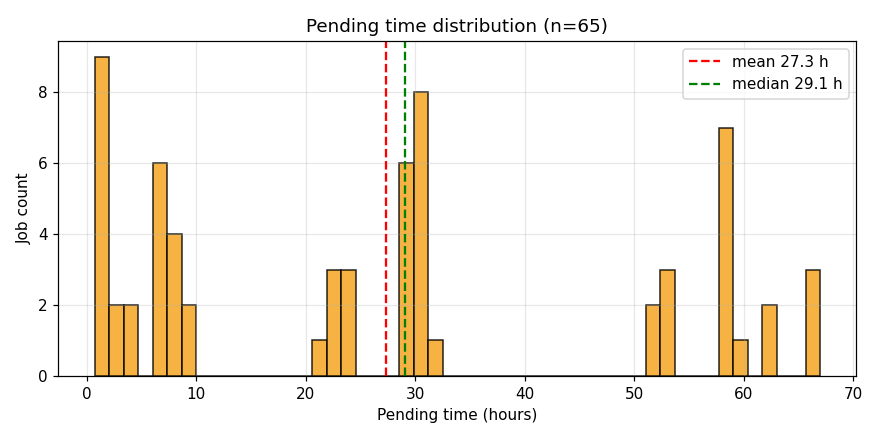
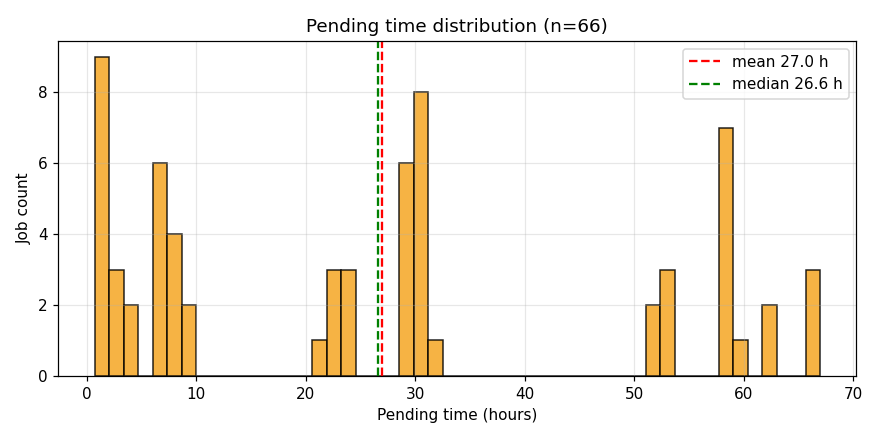
auto: 2026-09-26 00:22:02

diff --git a/index.html b/index.html
@@ -24,29 +24,29 @@ tr:nth-child(even) { background: #fafafa; }
 </style>
 </head><body>
 <h1>AF3 Campaign Dashboard</h1>
-<p class="stamp">Last updated: <strong>2026-09-25 23:21 EDT</strong> · regenerated on the cluster hourly · this page auto-reloads every 30 min</p>
+<p class="stamp">Last updated: <strong>2026-09-26 00:22 EDT</strong> · regenerated on the cluster hourly · this page auto-reloads every 30 min</p>
 
 <div class="cards">
-  <div class="card"><div class="v">1,994</div><div class="l">Total COMPLETED pairs</div></div>
-  <div class="card"><div class="v">913</div><div class="l">Done today</div></div>
-  <div class="card"><div class="v">928</div><div class="l">Last 24 h rate</div></div>
-  <div class="card"><div class="v">24 / 72</div><div class="l">Running / Pending now</div></div>
+  <div class="card"><div class="v">2,021</div><div class="l">Total COMPLETED pairs</div></div>
+  <div class="card"><div class="v">108</div><div class="l">Done today</div></div>
+  <div class="card"><div class="v">929</div><div class="l">Last 24 h rate</div></div>
+  <div class="card"><div class="v">25 / 71</div><div class="l">Running / Pending now</div></div>
 </div>
 
 <h2>Live queue</h2>
 <div class="plots">
   <div>
-    <h3>RUNNING (24)</h3>
+    <h3>RUNNING (25)</h3>
     <div class="queue-table">
       <table><thead><tr><th>Job</th><th>Elapsed</th><th>Left</th><th>Reason / Node</th></tr></thead>
-      <tbody><tr><td>af3_p085_b003</td><td>1:00:39</td><td>22:59:21</td><td>alphagpu52</td></tr><tr><td>af3_p085_b002</td><td>1:31:02</td><td>22:28:58</td><td>alphagpu54</td></tr><tr><td>af3_p085_b001</td><td>1:56:42</td><td>22:03:18</td><td>alphagpu54</td></tr><tr><td>af3_p083_b003</td><td>1:59:16</td><td>22:00:44</td><td>alphagpu54</td></tr><tr><td>af3_p083_b002</td><td>2:07:59</td><td>21:52:01</td><td>alphagpu52</td></tr><tr><td>af3_p083_b001</td><td>2:10:02</td><td>21:49:58</td><td>alphagpu53</td></tr><tr><td>af3_p061_b002</td><td>17:21:22</td><td>1-06:38:38</td><td>alphagpu51</td></tr><tr><td>af3_p061_b001</td><td>18:14:47</td><td>1-05:45:13</td><td>alphagpu53</td></tr><tr><td>af3_p060_b002</td><td>18:34:30</td><td>1-05:25:30</td><td>alphagpu51</td></tr><tr><td>af3_p060_b001</td><td>22:03:20</td><td>1-01:56:40</td><td>alphagpu53</td></tr><tr><td>af3_p059_b001</td><td>1-00:22:00</td><td>23:38:00</td><td>alphagpu52</td></tr><tr><td>af3_p058_b001</td><td>1-01:59:56</td><td>22:00:04</td><td>alphagpu53</td></tr><tr><td>af3_p057_b001</td><td>1-02:12:47</td><td>21:47:13</td><td>alphagpu53</td></tr><tr><td>af3_p056_b001</td><td>1-02:27:28</td><td>21:32:32</td><td>alphagpu53</td></tr><tr><td>af3_p054_b001</td><td>1-07:50:21</td><td>16:09:39</td><td>alphagpu52</td></tr><tr><td>af3_p053_b001</td><td>1-08:00:04</td><td>15:59:56</td><td>alphagpu53</td></tr><tr><td>af3_p065_b002</td><td>4:46:59</td><td>1-19:13:01</td><td>alphagpu54</td></tr><tr><td>af3_p065_b001</td><td>5:05:32</td><td>1-18:54:28</td><td>alphagpu52</td></tr><tr><td>af3_p064_b002</td><td>6:32:47</td><td>1-17:27:13</td><td>alphagpu53</td></tr><tr><td>af3_p064_b001</td><td>6:42:25</td><td>1-17:17:35</td><td>alphagpu54</td></tr><tr><td>af3_p063_b002</td><td>6:57:38</td><td>1-17:02:22</td><td>alphagpu51</td></tr><tr><td>af3_p063_b001</td><td>7:46:49</td><td>1-16:13:11</td><td>alphagpu51</td></tr><tr><td>af3_p062_b002</td><td>12:34:45</td><td>1-11:25:15</td><td>alphagpu51</td></tr><tr><td>af3_p062_b001</td><td>13:18:16</td><td>1-10:41:44</td><td>alphagpu54</td></tr></tbody></table>
+      <tbody><tr><td>af3_p090_b001</td><td>50:24</td><td>23:09:36</td><td>alphagpu54</td></tr><tr><td>af3_p085_b003</td><td>2:01:12</td><td>21:58:48</td><td>alphagpu52</td></tr><tr><td>af3_p085_b002</td><td>2:31:35</td><td>21:28:25</td><td>alphagpu54</td></tr><tr><td>af3_p085_b001</td><td>2:57:15</td><td>21:02:45</td><td>alphagpu54</td></tr><tr><td>af3_p083_b003</td><td>2:59:49</td><td>21:00:11</td><td>alphagpu54</td></tr><tr><td>af3_p083_b002</td><td>3:08:32</td><td>20:51:28</td><td>alphagpu52</td></tr><tr><td>af3_p083_b001</td><td>3:10:35</td><td>20:49:25</td><td>alphagpu53</td></tr><tr><td>af3_p061_b002</td><td>18:21:55</td><td>1-05:38:05</td><td>alphagpu51</td></tr><tr><td>af3_p061_b001</td><td>19:15:20</td><td>1-04:44:40</td><td>alphagpu53</td></tr><tr><td>af3_p060_b002</td><td>19:35:03</td><td>1-04:24:57</td><td>alphagpu51</td></tr><tr><td>af3_p060_b001</td><td>23:03:53</td><td>1-00:56:07</td><td>alphagpu53</td></tr><tr><td>af3_p059_b001</td><td>1-01:22:33</td><td>22:37:27</td><td>alphagpu52</td></tr><tr><td>af3_p058_b001</td><td>1-03:00:29</td><td>20:59:31</td><td>alphagpu53</td></tr><tr><td>af3_p057_b001</td><td>1-03:13:20</td><td>20:46:40</td><td>alphagpu53</td></tr><tr><td>af3_p056_b001</td><td>1-03:28:01</td><td>20:31:59</td><td>alphagpu53</td></tr><tr><td>af3_p054_b001</td><td>1-08:50:54</td><td>15:09:06</td><td>alphagpu52</td></tr><tr><td>af3_p053_b001</td><td>1-09:00:37</td><td>14:59:23</td><td>alphagpu53</td></tr><tr><td>af3_p065_b002</td><td>5:47:32</td><td>1-18:12:28</td><td>alphagpu54</td></tr><tr><td>af3_p065_b001</td><td>6:06:05</td><td>1-17:53:55</td><td>alphagpu52</td></tr><tr><td>af3_p064_b002</td><td>7:33:20</td><td>1-16:26:40</td><td>alphagpu53</td></tr><tr><td>af3_p064_b001</td><td>7:42:58</td><td>1-16:17:02</td><td>alphagpu54</td></tr><tr><td>af3_p063_b002</td><td>7:58:11</td><td>1-16:01:49</td><td>alphagpu51</td></tr><tr><td>af3_p063_b001</td><td>8:47:22</td><td>1-15:12:38</td><td>alphagpu51</td></tr><tr><td>af3_p062_b002</td><td>13:35:18</td><td>1-10:24:42</td><td>alphagpu51</td></tr><tr><td>af3_p062_b001</td><td>14:18:49</td><td>1-09:41:11</td><td>alphagpu54</td></tr></tbody></table>
     </div>
   </div>
   <div>
-    <h3>PENDING (72)</h3>
+    <h3>PENDING (71)</h3>
     <div class="queue-table">
       <table><thead><tr><th>Job</th><th>Wait</th><th>Limit</th><th>Reason</th></tr></thead>
-      <tbody><tr><td>af3_p090_b002</td><td>0:00</td><td>1-00:00:00</td><td>(Priority)</td></tr><tr><td>af3_p090_b001</td><td>0:00</td><td>1-00:00:00</td><td>(Priority)</td></tr><tr><td>af3_p091_b003</td><td>0:00</td><td>1-00:00:00</td><td>(Priority)</td></tr><tr><td>af3_p091_b002</td><td>0:00</td><td>1-00:00:00</td><td>(Priority)</td></tr><tr><td>af3_p091_b001</td><td>0:00</td><td>1-00:00:00</td><td>(Priority)</td></tr><tr><td>af3_p090_b003</td><td>0:00</td><td>1-00:00:00</td><td>(Priority)</td></tr><tr><td>af3_p093_b003</td><td>0:00</td><td>1-00:00:00</td><td>(Priority)</td></tr><tr><td>af3_p093_b002</td><td>0:00</td><td>1-00:00:00</td><td>(Priority)</td></tr><tr><td>af3_p093_b001</td><td>0:00</td><td>1-00:00:00</td><td>(Priority)</td></tr><tr><td>af3_p092_b003</td><td>0:00</td><td>1-00:00:00</td><td>(Priority)</td></tr><tr><td>af3_p092_b002</td><td>0:00</td><td>1-00:00:00</td><td>(Priority)</td></tr><tr><td>af3_p092_b001</td><td>0:00</td><td>1-00:00:00</td><td>(Priority)</td></tr><tr><td>af3_p096_b001</td><td>0:00</td><td>1-00:00:00</td><td>(Priority)</td></tr><tr><td>af3_p095_b003</td><td>0:00</td><td>1-00:00:00</td><td>(Priority)</td></tr><tr><td>af3_p095_b002</td><td>0:00</td><td>1-00:00:00</td><td>(Priority)</td></tr><tr><td>af3_p095_b001</td><td>0:00</td><td>1-00:00:00</td><td>(Priority)</td></tr><tr><td>af3_p094_b003</td><td>0:00</td><td>1-00:00:00</td><td>(Priority)</td></tr><tr><td>af3_p094_b002</td><td>0:00</td><td>1-00:00:00</td><td>(Priority)</td></tr><tr><td>af3_p094_b001</td><td>0:00</td><td>1-00:00:00</td><td>(Priority)</td></tr><tr><td>af3_p098_b003</td><td>0:00</td><td>1-00:00:00</td><td>(Priority)</td></tr><tr><td>af3_p098_b002</td><td>0:00</td><td>1-00:00:00</td><td>(Priority)</td></tr><tr><td>af3_p098_b001</td><td>0:00</td><td>1-00:00:00</td><td>(Priority)</td></tr><tr><td>af3_p097_b003</td><td>0:00</td><td>1-00:00:00</td><td>(Priority)</td></tr><tr><td>af3_p097_b002</td><td>0:00</td><td>1-00:00:00</td><td>(Priority)</td></tr><tr><td>af3_p097_b001</td><td>0:00</td><td>1-00:00:00</td><td>(Priority)</td></tr><tr><td>af3_p096_b003</td><td>0:00</td><td>1-00:00:00</td><td>(Priority)</td></tr><tr><td>af3_p096_b002</td><td>0:00</td><td>1-00:00:00</td><td>(Priority)</td></tr><tr><td>af3_p099_b001</td><td>0:00</td><td>1-00:00:00</td><td>(Priority)</td></tr><tr><td>af3_p100_b002</td><td>0:00</td><td>1-00:00:00</td><td>(Priority)</td></tr><tr><td>af3_p100_b001</td><td>0:00</td><td>1-00:00:00</td><td>(Priority)</td></tr><tr><td>af3_p099_b003</td><td>0:00</td><td>1-00:00:00</td><td>(Priority)</td></tr><tr><td>af3_p099_b002</td><td>0:00</td><td>1-00:00:00</td><td>(Priority)</td></tr><tr><td>af3_p101_b003</td><td>0:00</td><td>1-00:00:00</td><td>(Priority)</td></tr><tr><td>af3_p101_b002</td><td>0:00</td><td>1-00:00:00</td><td>(Priority)</td></tr><tr><td>af3_p101_b001</td><td>0:00</td><td>1-00:00:00</td><td>(Priority)</td></tr><tr><td>af3_p100_b003</td><td>0:00</td><td>1-00:00:00</td><td>(Priority)</td></tr><tr><td>af3_p103_b003</td><td>0:00</td><td>1-00:00:00</td><td>(Priority)</td></tr><tr><td>af3_p103_b002</td><td>0:00</td><td>1-00:00:00</td><td>(Priority)</td></tr><tr><td>af3_p103_b001</td><td>0:00</td><td>1-00:00:00</td><td>(Priority)</td></tr><tr><td>af3_p102_b003</td><td>0:00</td><td>1-00:00:00</td><td>(Priority)</td></tr><tr><td>af3_p102_b002</td><td>0:00</td><td>1-00:00:00</td><td>(Priority)</td></tr><tr><td>af3_p102_b001</td><td>0:00</td><td>1-00:00:00</td><td>(Priority)</td></tr><tr><td>af3_p066_b002</td><td>0:00</td><td>2-00:00:00</td><td>(Priority)</td></tr><tr><td>af3_p066_b001</td><td>0:00</td><td>2-00:00:00</td><td>(Priority)</td></tr><tr><td>af3_p078_b002</td><td>0:00</td><td>2-00:00:00</td><td>(Priority)</td></tr><tr><td>af3_p078_b001</td><td>0:00</td><td>2-00:00:00</td><td>(Priority)</td></tr><tr><td>af3_p077_b002</td><td>0:00</td><td>2-00:00:00</td><td>(Priority)</td></tr><tr><td>af3_p077_b001</td><td>0:00</td><td>2-00:00:00</td><td>(Priority)</td></tr><tr><td>af3_p076_b002</td><td>0:00</td><td>2-00:00:00</td><td>(Priority)</td></tr><tr><td>af3_p076_b001</td><td>0:00</td><td>2-00:00:00</td><td>(Priority)</td></tr><tr><td>af3_p075_b002</td><td>0:00</td><td>2-00:00:00</td><td>(Priority)</td></tr><tr><td>af3_p075_b001</td><td>0:00</td><td>2-00:00:00</td><td>(Priority)</td></tr><tr><td>af3_p074_b002</td><td>0:00</td><td>2-00:00:00</td><td>(Priority)</td></tr><tr><td>af3_p074_b001</td><td>0:00</td><td>2-00:00:00</td><td>(Priority)</td></tr><tr><td>af3_p073_b002</td><td>0:00</td><td>2-00:00:00</td><td>(Priority)</td></tr><tr><td>af3_p073_b001</td><td>0:00</td><td>2-00:00:00</td><td>(Priority)</td></tr><tr><td>af3_p072_b002</td><td>0:00</td><td>2-00:00:00</td><td>(Priority)</td></tr><tr><td>af3_p072_b001</td><td>0:00</td><td>2-00:00:00</td><td>(Priority)</td></tr><tr><td>af3_p071_b002</td><td>0:00</td><td>2-00:00:00</td><td>(Priority)</td></tr><tr><td>af3_p071_b001</td><td>0:00</td><td>2-00:00:00</td><td>(Priority)</td></tr><tr><td>af3_p070_b002</td><td>0:00</td><td>2-00:00:00</td><td>(Priority)</td></tr><tr><td>af3_p070_b001</td><td>0:00</td><td>2-00:00:00</td><td>(Priority)</td></tr><tr><td>af3_p069_b002</td><td>0:00</td><td>2-00:00:00</td><td>(Priority)</td></tr><tr><td>af3_p069_b001</td><td>0:00</td><td>2-00:00:00</td><td>(Priority)</td></tr><tr><td>af3_p068_b002</td><td>0:00</td><td>2-00:00:00</td><td>(Priority)</td></tr><tr><td>af3_p068_b001</td><td>0:00</td><td>2-00:00:00</td><td>(Priority)</td></tr><tr><td>af3_p067_b002</td><td>0:00</td><td>2-00:00:00</td><td>(Priority)</td></tr><tr><td>af3_p067_b001</td><td>0:00</td><td>2-00:00:00</td><td>(Priority)</td></tr><tr><td>af3_p082_b002</td><td>0:00</td><td>2-00:00:00</td><td>(Priority)</td></tr><tr><td>af3_p082_b001</td><td>0:00</td><td>2-00:00:00</td><td>(Priority)</td></tr><tr><td>af3_p080_b002</td><td>0:00</td><td>2-00:00:00</td><td>(Priority)</td></tr><tr><td>af3_p080_b001</td><td>0:00</td><td>2-00:00:00</td><td>(Priority)</td></tr></tbody></table>
+      <tbody><tr><td>af3_p090_b003</td><td>0:00</td><td>1-00:00:00</td><td>(Priority)</td></tr><tr><td>af3_p090_b002</td><td>0:00</td><td>1-00:00:00</td><td>(Priority)</td></tr><tr><td>af3_p092_b003</td><td>0:00</td><td>1-00:00:00</td><td>(Priority)</td></tr><tr><td>af3_p092_b002</td><td>0:00</td><td>1-00:00:00</td><td>(Priority)</td></tr><tr><td>af3_p092_b001</td><td>0:00</td><td>1-00:00:00</td><td>(Priority)</td></tr><tr><td>af3_p091_b003</td><td>0:00</td><td>1-00:00:00</td><td>(Priority)</td></tr><tr><td>af3_p091_b002</td><td>0:00</td><td>1-00:00:00</td><td>(Priority)</td></tr><tr><td>af3_p091_b001</td><td>0:00</td><td>1-00:00:00</td><td>(Priority)</td></tr><tr><td>af3_p094_b003</td><td>0:00</td><td>1-00:00:00</td><td>(Priority)</td></tr><tr><td>af3_p094_b002</td><td>0:00</td><td>1-00:00:00</td><td>(Priority)</td></tr><tr><td>af3_p094_b001</td><td>0:00</td><td>1-00:00:00</td><td>(Priority)</td></tr><tr><td>af3_p093_b003</td><td>0:00</td><td>1-00:00:00</td><td>(Priority)</td></tr><tr><td>af3_p093_b002</td><td>0:00</td><td>1-00:00:00</td><td>(Priority)</td></tr><tr><td>af3_p093_b001</td><td>0:00</td><td>1-00:00:00</td><td>(Priority)</td></tr><tr><td>af3_p096_b003</td><td>0:00</td><td>1-00:00:00</td><td>(Priority)</td></tr><tr><td>af3_p096_b002</td><td>0:00</td><td>1-00:00:00</td><td>(Priority)</td></tr><tr><td>af3_p096_b001</td><td>0:00</td><td>1-00:00:00</td><td>(Priority)</td></tr><tr><td>af3_p095_b003</td><td>0:00</td><td>1-00:00:00</td><td>(Priority)</td></tr><tr><td>af3_p095_b002</td><td>0:00</td><td>1-00:00:00</td><td>(Priority)</td></tr><tr><td>af3_p095_b001</td><td>0:00</td><td>1-00:00:00</td><td>(Priority)</td></tr><tr><td>af3_p098_b003</td><td>0:00</td><td>1-00:00:00</td><td>(Priority)</td></tr><tr><td>af3_p098_b002</td><td>0:00</td><td>1-00:00:00</td><td>(Priority)</td></tr><tr><td>af3_p098_b001</td><td>0:00</td><td>1-00:00:00</td><td>(Priority)</td></tr><tr><td>af3_p097_b003</td><td>0:00</td><td>1-00:00:00</td><td>(Priority)</td></tr><tr><td>af3_p097_b002</td><td>0:00</td><td>1-00:00:00</td><td>(Priority)</td></tr><tr><td>af3_p097_b001</td><td>0:00</td><td>1-00:00:00</td><td>(Priority)</td></tr><tr><td>af3_p099_b002</td><td>0:00</td><td>1-00:00:00</td><td>(Priority)</td></tr><tr><td>af3_p099_b001</td><td>0:00</td><td>1-00:00:00</td><td>(Priority)</td></tr><tr><td>af3_p100_b003</td><td>0:00</td><td>1-00:00:00</td><td>(Priority)</td></tr><tr><td>af3_p100_b002</td><td>0:00</td><td>1-00:00:00</td><td>(Priority)</td></tr><tr><td>af3_p100_b001</td><td>0:00</td><td>1-00:00:00</td><td>(Priority)</td></tr><tr><td>af3_p099_b003</td><td>0:00</td><td>1-00:00:00</td><td>(Priority)</td></tr><tr><td>af3_p102_b003</td><td>0:00</td><td>1-00:00:00</td><td>(Priority)</td></tr><tr><td>af3_p102_b002</td><td>0:00</td><td>1-00:00:00</td><td>(Priority)</td></tr><tr><td>af3_p102_b001</td><td>0:00</td><td>1-00:00:00</td><td>(Priority)</td></tr><tr><td>af3_p101_b003</td><td>0:00</td><td>1-00:00:00</td><td>(Priority)</td></tr><tr><td>af3_p101_b002</td><td>0:00</td><td>1-00:00:00</td><td>(Priority)</td></tr><tr><td>af3_p101_b001</td><td>0:00</td><td>1-00:00:00</td><td>(Priority)</td></tr><tr><td>af3_p103_b003</td><td>0:00</td><td>1-00:00:00</td><td>(Priority)</td></tr><tr><td>af3_p103_b002</td><td>0:00</td><td>1-00:00:00</td><td>(Priority)</td></tr><tr><td>af3_p103_b001</td><td>0:00</td><td>1-00:00:00</td><td>(Priority)</td></tr><tr><td>af3_p069_b002</td><td>0:00</td><td>2-00:00:00</td><td>(Priority)</td></tr><tr><td>af3_p069_b001</td><td>0:00</td><td>2-00:00:00</td><td>(Priority)</td></tr><tr><td>af3_p068_b002</td><td>0:00</td><td>2-00:00:00</td><td>(Priority)</td></tr><tr><td>af3_p068_b001</td><td>0:00</td><td>2-00:00:00</td><td>(Priority)</td></tr><tr><td>af3_p067_b002</td><td>0:00</td><td>2-00:00:00</td><td>(Priority)</td></tr><tr><td>af3_p067_b001</td><td>0:00</td><td>2-00:00:00</td><td>(Priority)</td></tr><tr><td>af3_p066_b002</td><td>0:00</td><td>2-00:00:00</td><td>(Priority)</td></tr><tr><td>af3_p066_b001</td><td>0:00</td><td>2-00:00:00</td><td>(Priority)</td></tr><tr><td>af3_p078_b002</td><td>0:00</td><td>2-00:00:00</td><td>(Priority)</td></tr><tr><td>af3_p078_b001</td><td>0:00</td><td>2-00:00:00</td><td>(Priority)</td></tr><tr><td>af3_p077_b002</td><td>0:00</td><td>2-00:00:00</td><td>(Priority)</td></tr><tr><td>af3_p077_b001</td><td>0:00</td><td>2-00:00:00</td><td>(Priority)</td></tr><tr><td>af3_p076_b002</td><td>0:00</td><td>2-00:00:00</td><td>(Priority)</td></tr><tr><td>af3_p076_b001</td><td>0:00</td><td>2-00:00:00</td><td>(Priority)</td></tr><tr><td>af3_p075_b002</td><td>0:00</td><td>2-00:00:00</td><td>(Priority)</td></tr><tr><td>af3_p075_b001</td><td>0:00</td><td>2-00:00:00</td><td>(Priority)</td></tr><tr><td>af3_p074_b002</td><td>0:00</td><td>2-00:00:00</td><td>(Priority)</td></tr><tr><td>af3_p074_b001</td><td>0:00</td><td>2-00:00:00</td><td>(Priority)</td></tr><tr><td>af3_p073_b002</td><td>0:00</td><td>2-00:00:00</td><td>(Priority)</td></tr><tr><td>af3_p073_b001</td><td>0:00</td><td>2-00:00:00</td><td>(Priority)</td></tr><tr><td>af3_p072_b002</td><td>0:00</td><td>2-00:00:00</td><td>(Priority)</td></tr><tr><td>af3_p072_b001</td><td>0:00</td><td>2-00:00:00</td><td>(Priority)</td></tr><tr><td>af3_p071_b002</td><td>0:00</td><td>2-00:00:00</td><td>(Priority)</td></tr><tr><td>af3_p071_b001</td><td>0:00</td><td>2-00:00:00</td><td>(Priority)</td></tr><tr><td>af3_p070_b002</td><td>0:00</td><td>2-00:00:00</td><td>(Priority)</td></tr><tr><td>af3_p070_b001</td><td>0:00</td><td>2-00:00:00</td><td>(Priority)</td></tr><tr><td>af3_p080_b002</td><td>0:00</td><td>2-00:00:00</td><td>(Priority)</td></tr><tr><td>af3_p080_b001</td><td>0:00</td><td>2-00:00:00</td><td>(Priority)</td></tr><tr><td>af3_p082_b002</td><td>0:00</td><td>2-00:00:00</td><td>(Priority)</td></tr><tr><td>af3_p082_b001</td><td>0:00</td><td>2-00:00:00</td><td>(Priority)</td></tr></tbody></table>
     </div>
   </div>
 </div>
@@ -62,7 +62,7 @@ tr:nth-child(even) { background: #fafafa; }
 </div>
 
 <h2>All-time job state breakdown</h2>
-<table><thead><tr><th>State</th><th>Count</th></tr></thead><tbody><tr><td>PENDING</td><td>72</td></tr><tr><td>COMPLETED</td><td>36</td></tr><tr><td>RUNNING</td><td>24</td></tr></tbody></table>
+<table><thead><tr><th>State</th><th>Count</th></tr></thead><tbody><tr><td>PENDING</td><td>71</td></tr><tr><td>COMPLETED</td><td>36</td></tr><tr><td>RUNNING</td><td>25</td></tr></tbody></table>
 
 <p class="stamp"><small>Generated by <code>generate.py</code> on the SUNY HPC cluster.
 Source / regeneration policy at <a href="https://github.com/matvei-lukianov/af3-dashboard">github.com/matvei-lukianov/af3-dashboard</a></small></p>
